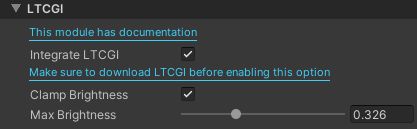
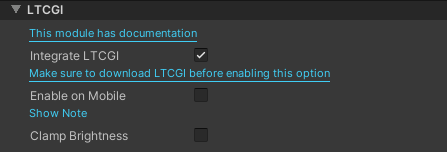
added LTCGI mobile switch info

diff --git a/src/pages/docs/changelog.md b/src/pages/docs/changelog.md
@@ -57,6 +57,7 @@ Version 7.0.0 ads lots of new features, improvements, and bugfixes. This release
 - Toon shaders now have a new **Raise Minimum Light** checkbox which allows you to bump the minimum brightness of your material in environments with no lighting data.
 - Toon shaders can now sample lightprobe colors uniformly, which is desireable in some cases.
 - Glitch Screen shader now has a separate **Transparency** texture that can be used to control the alpha channel of the material. It now also supports different render types.
+- You can now enable LTCGI on mobile platforms.
 
 ### Bugfixes
 

diff --git a/src/pages/docs/orl-standard/ltcgi.md b/src/pages/docs/orl-standard/ltcgi.md
@@ -20,5 +20,6 @@ You must import the LTCGI package into the project for the shader to work correc
 ## Settings
 
 - Integrate LTCGI: Toggles LTCGI on and off
+- Enable on Mobile: Allows LTCGI effects to be calculated on mobile platforms
 - Clamp Brightness: Enabled brightness normalization and clamping to prevent brightness spikes
   - Max Brightness: Maximum allowed brightness
